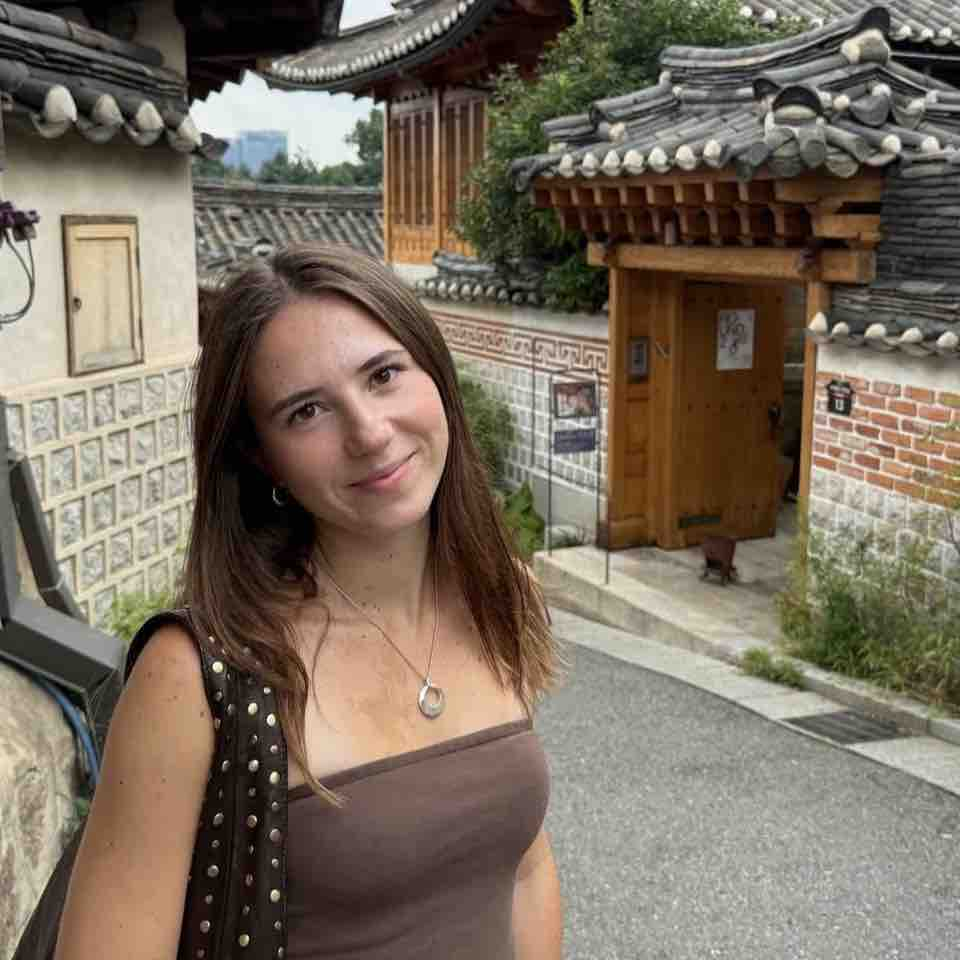
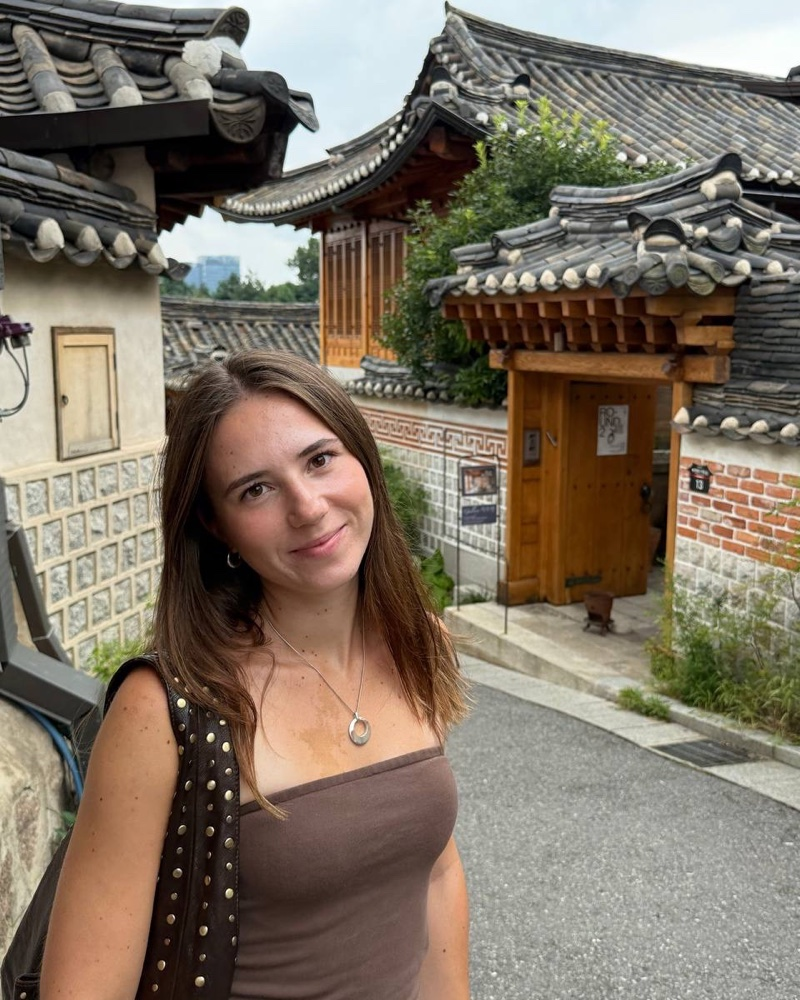
Replace the team photos with the HD originals, reframed
Johannes's original is landscape 1280x961 with him small and off to the right,
which is what read as "zoomed out" — a plain resize into the 4:5 slot would
have kept him that size and simply cropped the sides. Cropped to 769x961
centred on him first, so he now fills the frame at roughly the same scale as
Hannah. Hers is already 960x1280 portrait and only loses 80px off the bottom
to reach 4:5, taken from the bottom so the headroom survives.

Both output at 800x1000, the size the slot actually renders. The HD sources
are now in Team Photos/ rather than only in Downloads, and the four superseded
PNGs are gone.

Verified: the .member-photo box is 0.80 (exactly 4:5) at 390 and 1470, so
object-fit:cover crops nothing, both load, no failed requests. All twelve
suites pass.

diff --git a/CLAUDE.md b/CLAUDE.md
@@ -75,8 +75,16 @@ overwrite the file at the same path. No code changes needed.**
 | `assets/img/works/` | 6 | 1600×1000 (16:10) |
 | `assets/img/showcase/` | 5 | 1080×2340 (9:19.5) |
 | `assets/img/services/` | 7 | 800×800 (1:1) — currently unreferenced, see below |
-| `assets/img/team/` | 2 | 800×1000 (4:5) |
+| `assets/img/team/` | 2 | 800×1000 (4:5) — **real photos, not placeholder** |
 | `assets/img/og-image.jpg` | 1 | 1200×630 |
+
+**`assets/img/team/` is real, not placeholder.** Built from the HD originals in
+`Team Photos/` (`JohannesHD.JPG`, `HannahHD.JPG`). Both needed cropping to 4:5
+before resizing, and Johannes's especially: his original is *landscape* 1280x961
+with him small and off-centre right, which is what "zoomed out" meant. It is
+cropped to 769x961 around him, then resized. Hannah's is 960x1280 portrait and
+only loses 80px off the bottom. Re-cropping means redoing that framing by hand —
+a plain resize of the landscape original will reintroduce the problem.
 
 **`assets/img/clients/` is real, not placeholder.** All ten marks are the client's own
 artwork. The eight PNGs are built from `Client Logos/` (repo root) by
